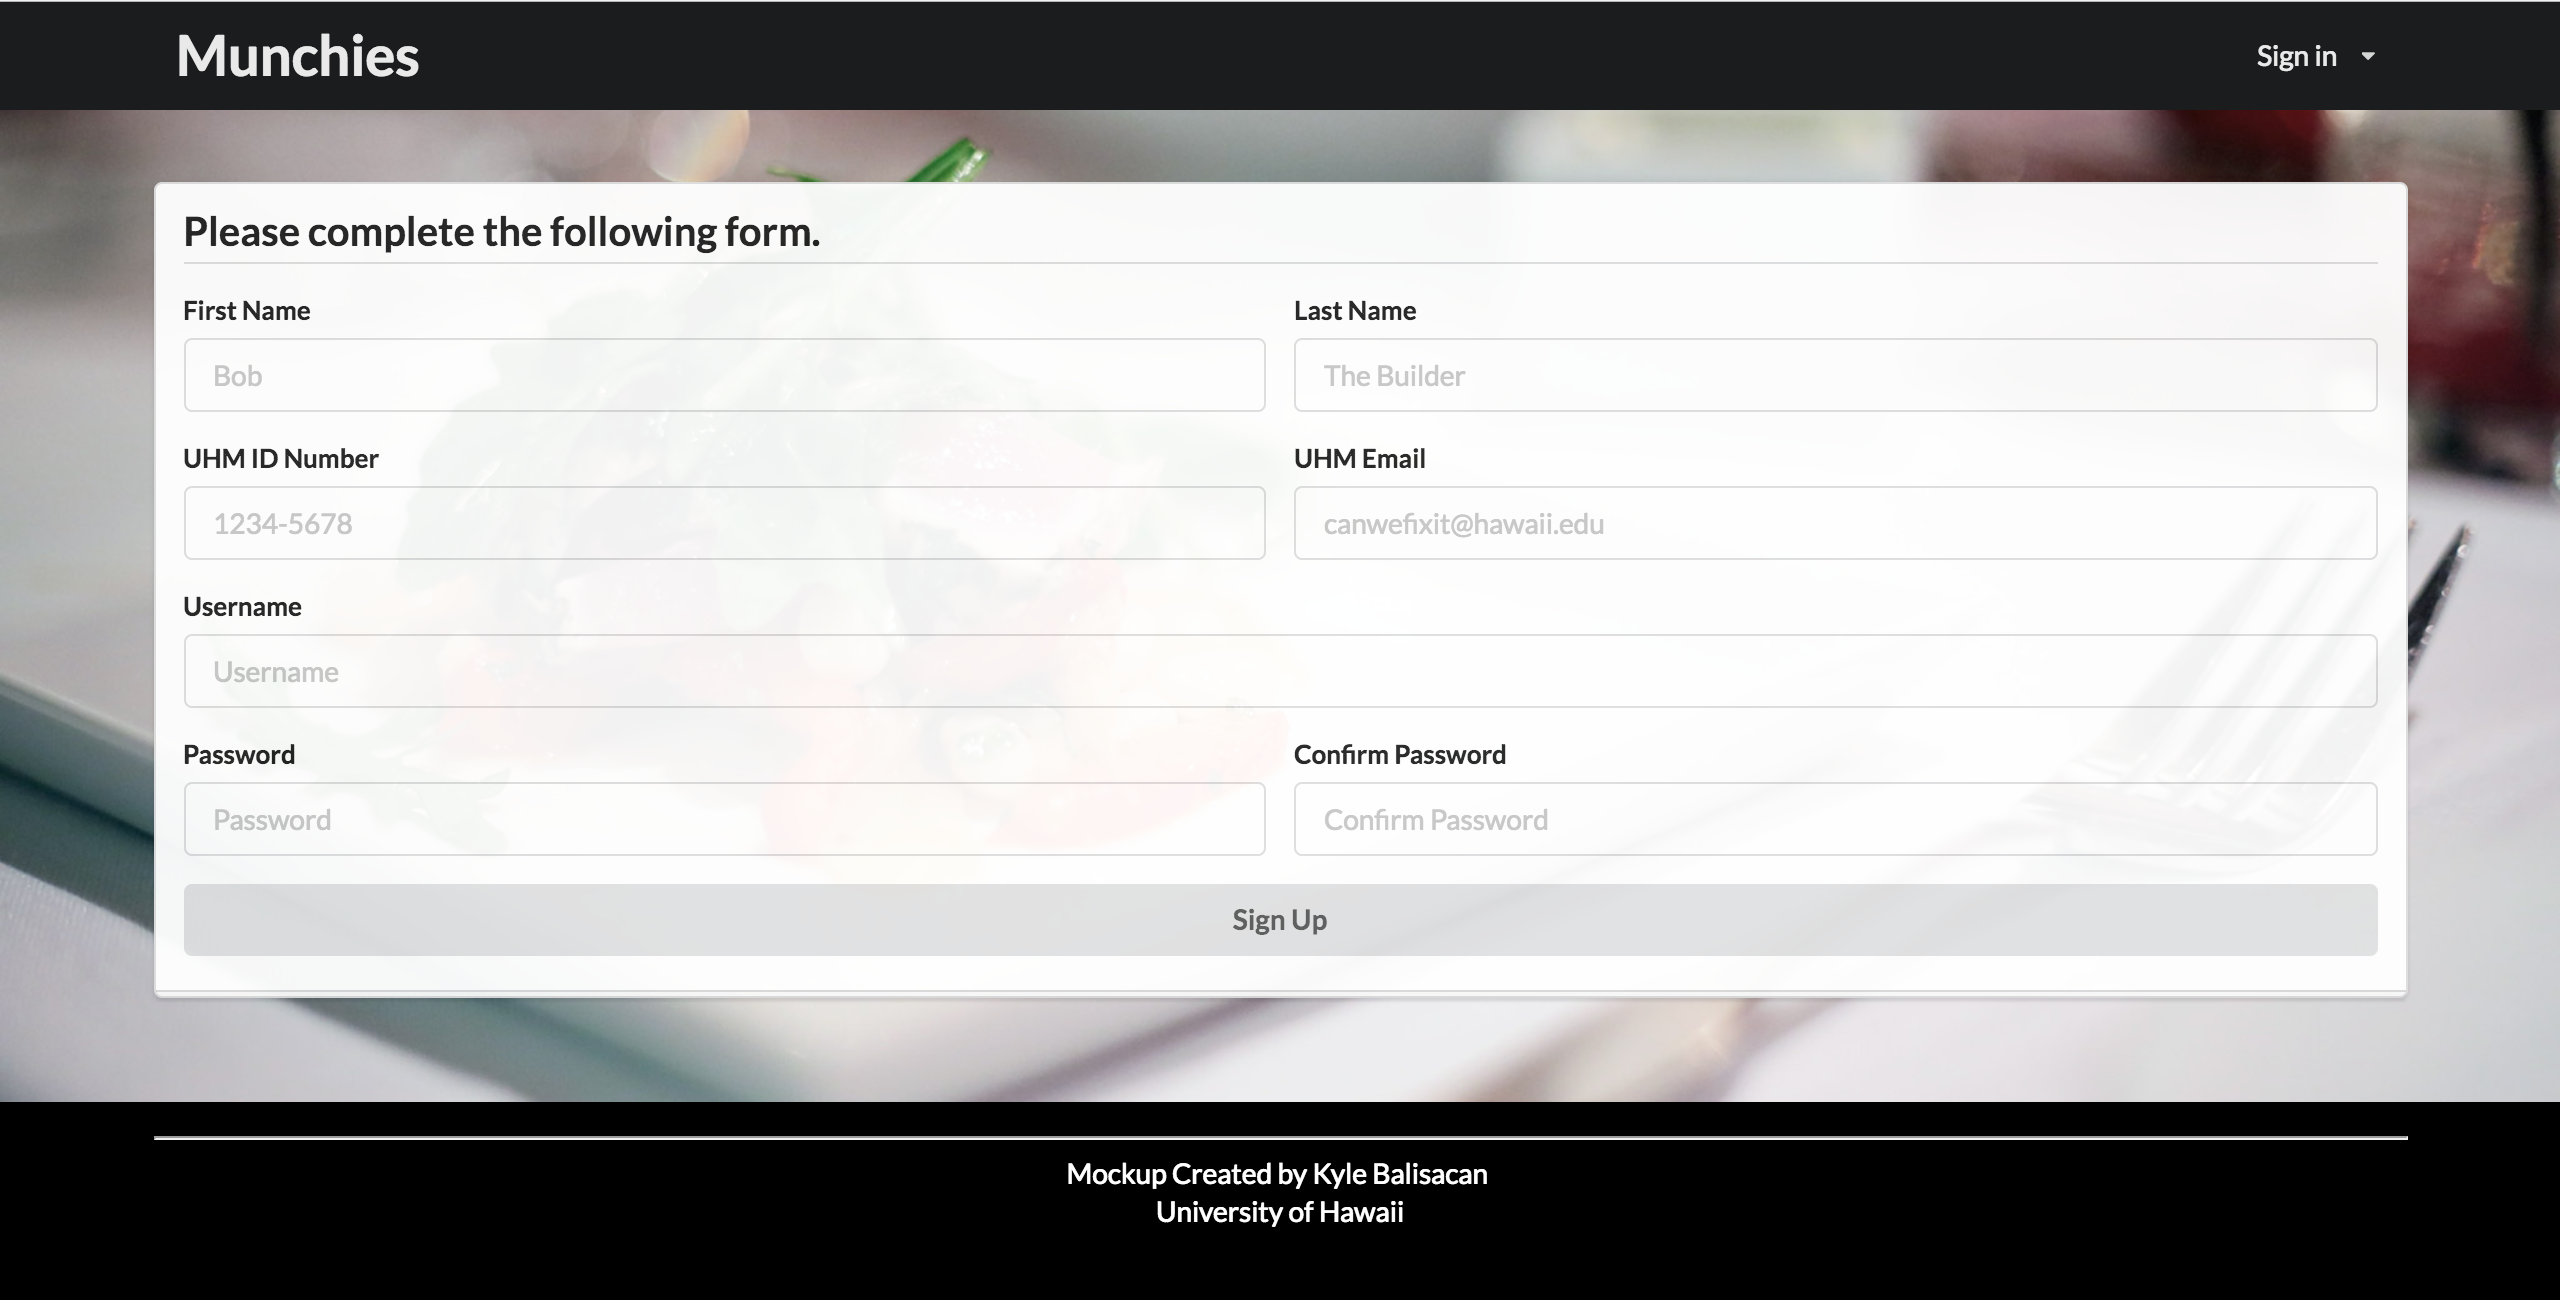
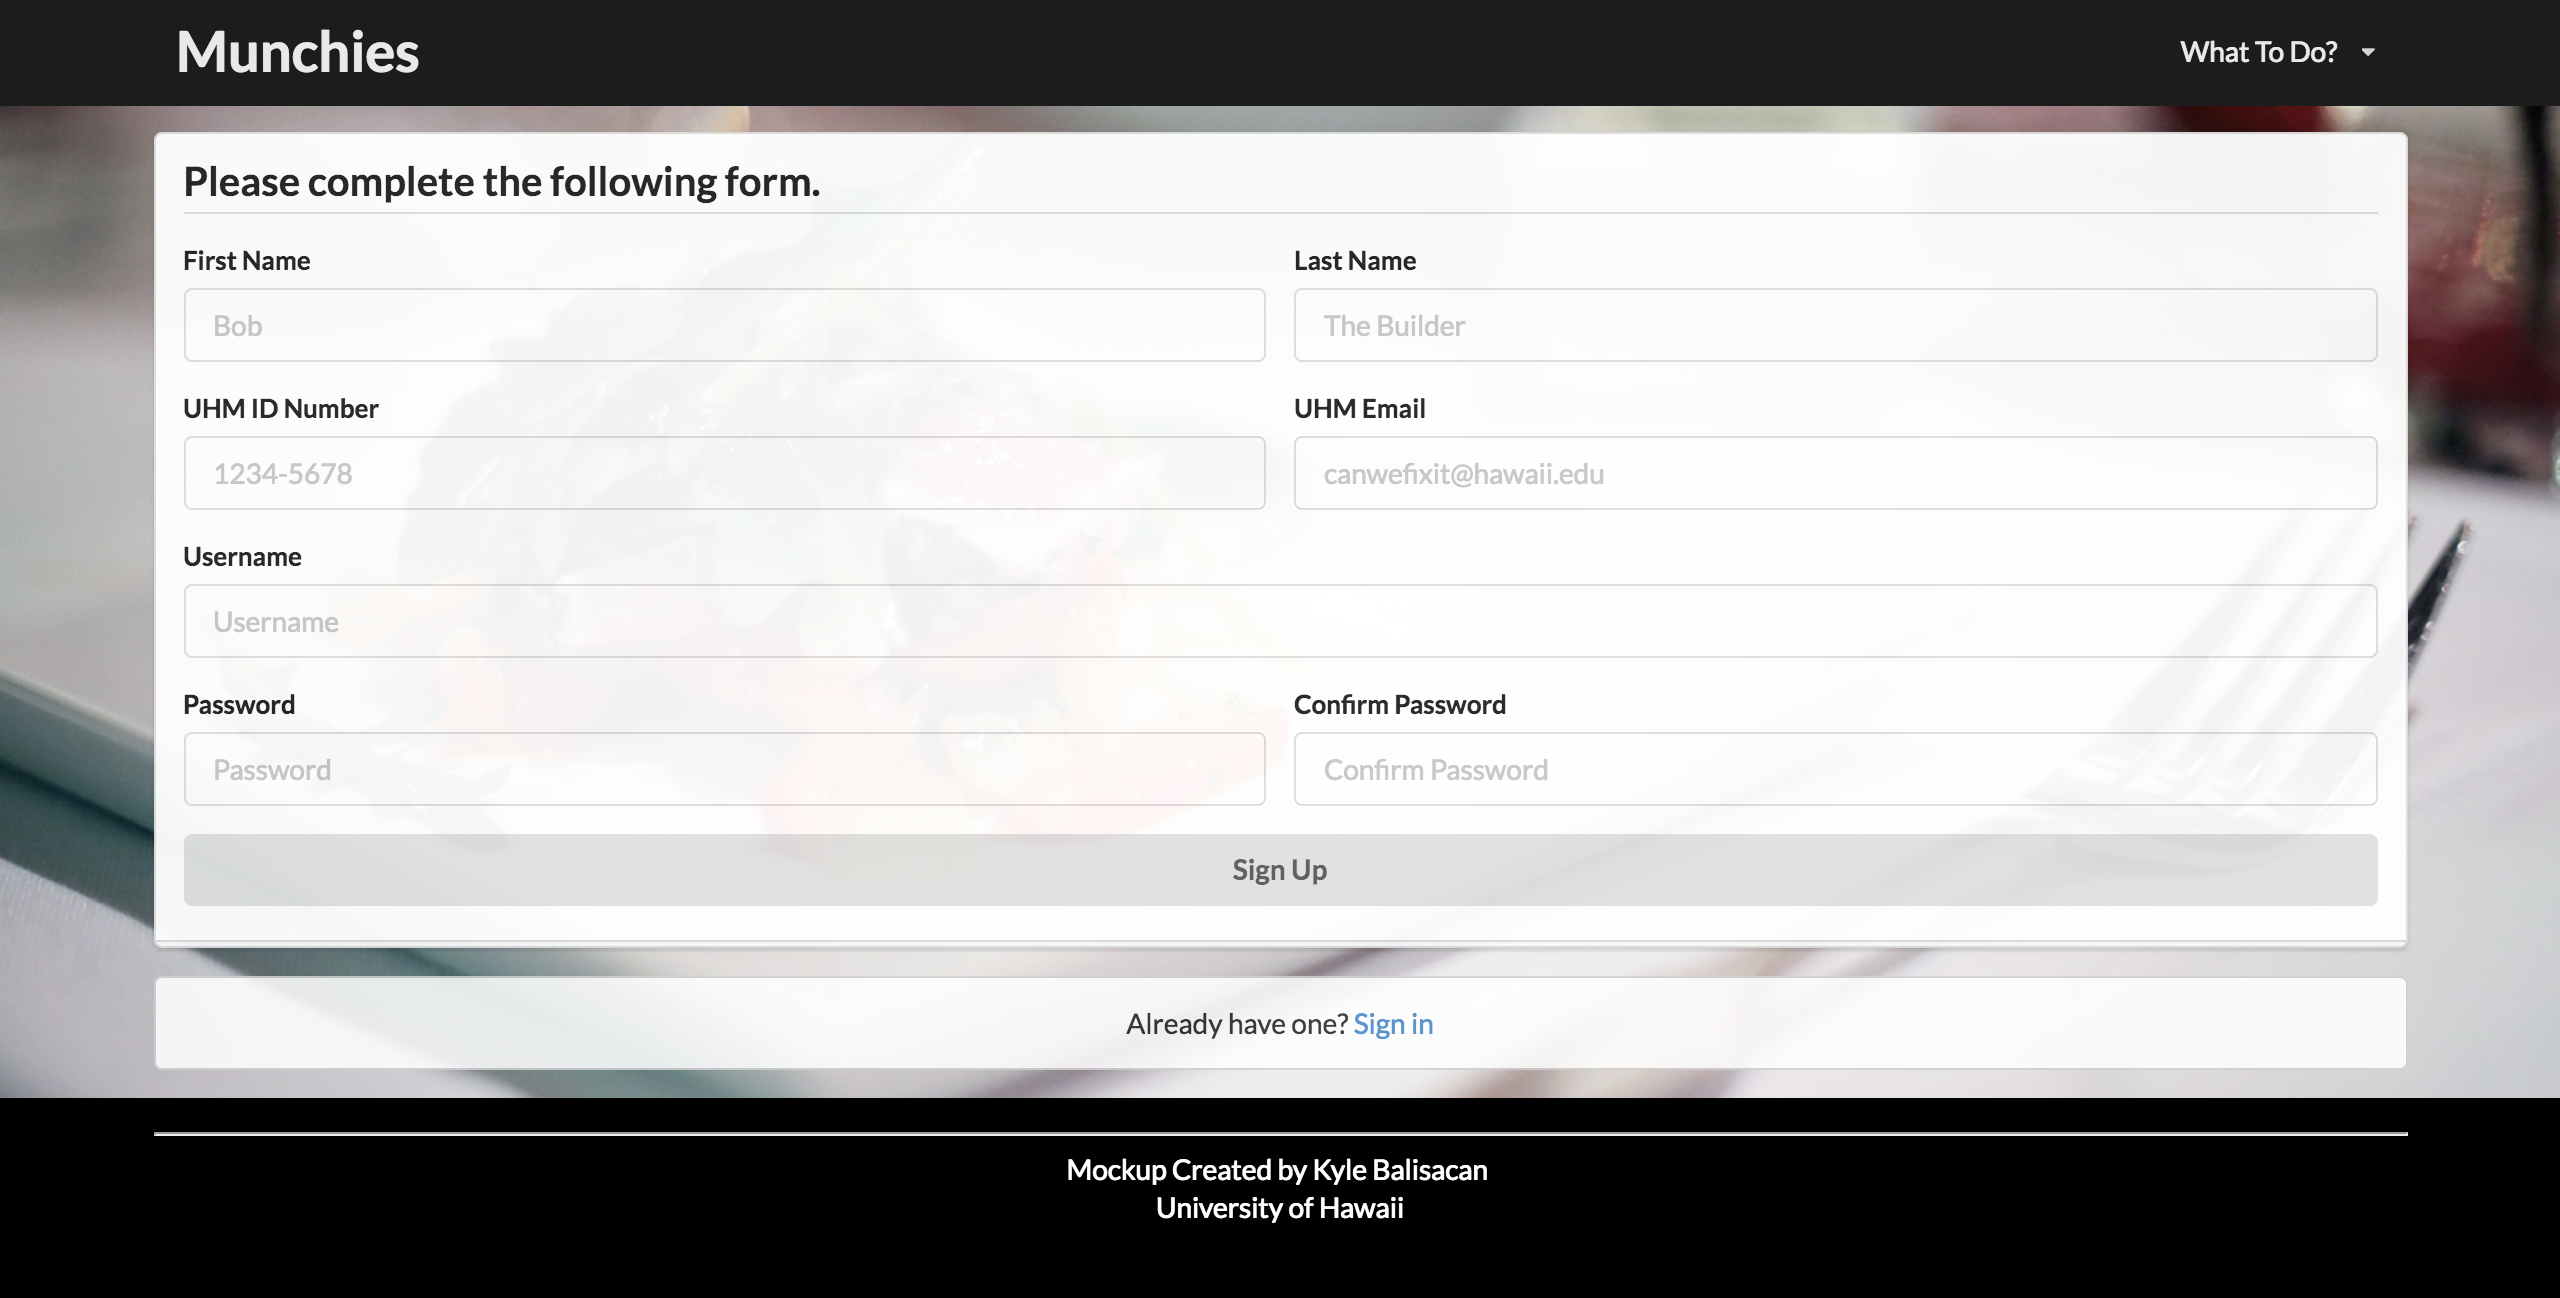
rough draft about page

diff --git a/app/imports/ui/pages/about-us.html b/app/imports/ui/pages/about-us.html
@@ -1,0 +1,27 @@
+<template name="About_Us_Page">
+
+  <div class="about-grad-background" style="opacity: 0.80">
+    <div class="ui container about-colorblocktop">
+      <div class="ui column">
+        <div class="about-center text">
+          Solving students "Where You Like Eat?" problems since 2016
+        </div>
+        <div class="text" style="text-align: center">
+          This project was created to ensure 100% full stomachs to all hungry students.
+        </div>
+      </div>
+    </div>
+  </div>
+
+  <!--</div>-->
+  <!--<div class="four wide column">
+    <img class="ui small circular image" src="/images/meteor-logo.png"/>
+  </div>
+
+  <div class="eight wide column">
+    <h1>Welcome to this template</h1>
+    <p>Now get to work and modify this app!</p>
+  </div>-->
+
+
+</template>

diff --git a/app/imports/ui/pages/signup_page.html b/app/imports/ui/pages/signup_page.html
@@ -1,7 +1,7 @@
 <template name="Sign_Up_Page">
 
   <div class="sign-grad-background">
-    <div class="ui container" style="padding-top: 40px;">
+    <div class="ui container" style="padding-top: 17px;">
       <form class="ui large form">
         <div class="ui stacked segment" style="opacity: 0.95">
           <h4 class="ui dividing header" style="font-size: 20px">Please complete the following form.</h4>
@@ -52,6 +52,10 @@
           <button class="ui fluid button" type="submit">Sign Up</button>
         </div>
       </form>
+
+      <div class="ui message" style="text-align: center; background-color: white; opacity: 0.85">
+        Already have one?<a href="login"> Sign in</a>
+      </div>
 
     </div>
   </div>

diff --git a/app/imports/ui/stylesheets/style.css b/app/imports/ui/stylesheets/style.css
@@ -59,6 +59,24 @@ body {
   padding-top: 100px;
 }
 
+.about-grad-background {
+  background: url(http://www.donna.gr/wp-content/uploads/2015/06/pancakes.jpg) no-repeat center center fixed;
+  background-size: cover;
+  height: 500px;
+}
+
+.about-center.text {
+  color: black;
+  font-family: 'Lato', sans-serif;
+  text-align: center;
+  font-size: 30px;
+  padding-bottom: 50px;
+}
+
+.about-colorblocktop {
+  padding-top: 100px;
+}
+
 footer {
   background-color: black;
   height: 100px;

diff --git a/app/imports/ui/pages/index.js b/app/imports/ui/pages/index.js
@@ -18,5 +18,8 @@ import './profile_page.html';
 
 import './top_page.html';
 
+
+import './about-us.html';
+
 import './list-stuff-page.html';
 import './list-stuff-page.js';

diff --git a/README.md b/README.md
@@ -19,3 +19,8 @@ Profile Page
 <br>
 <img src="/app/public/images/profile.png">
 <br><br>
+
+About Page
+<br>
+<img src="/app/public/images/about.png">
+<br><br>
